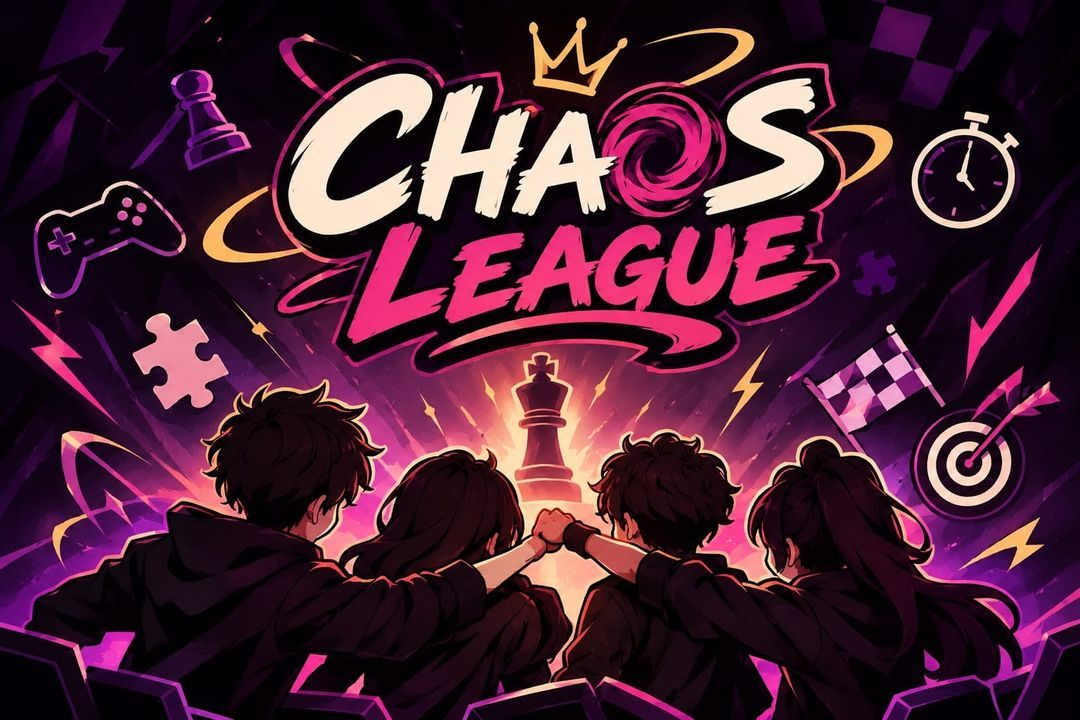
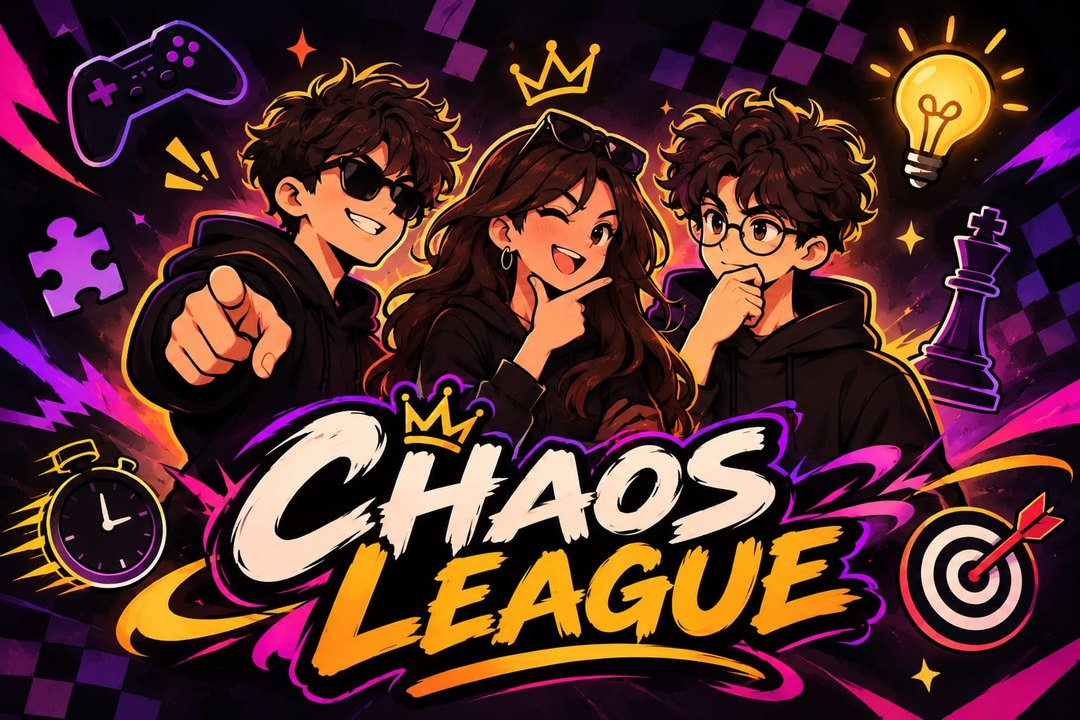
Update Chaos League to Team of 3 and update poster image

diff --git a/app.js b/app.js
@@ -755,7 +755,7 @@ function initApplication() {
       'assets/events/algo_x.jpg?v=15.0',
       'assets/events/free_fire.jpg?v=15.0',
       'assets/events/bgmi.jpg?v=15.0',
-      'assets/events/chaos_league.jpg?v=15.0',
+      'assets/events/chaos_league.jpg?v=16.0',
       'assets/events/clue_crew.jpg?v=15.0'
     ];
     posters.forEach(src => {
@@ -880,9 +880,9 @@ The best algorithm doesn’t just work, it wins. Solutions are scored automatica
     'chaos-league': {
       title: 'CHAOS LEAGUE',
       track: 'NON-TECHNICAL CONCLAVE // TRACK 03',
-      image: 'assets/events/chaos_league.jpg',
+      image: 'assets/events/chaos_league.jpg?v=16.0',
       registerUrl: REGISTER_FORM_URL,
-      description: `Chaos League is an exciting team-based game where four members come together to challenge their teamwork and abilities. It takes trust, coordination, smart thinking, and quick decision-making to overcome unexpected challenges. Work together, think creatively, and act fast to stay ahead of the chaos. Remember, victory isn't just about individual skills but how well your team plays together!`,
+      description: `Chaos League is an exciting team-based game where three members come together to challenge their teamwork and abilities. It takes trust, coordination, smart thinking, and quick decision-making to overcome unexpected challenges. Work together, think creatively, and act fast to stay ahead of the chaos. Remember, victory isn't just about individual skills but how well your team plays together!`,
       rules: ''
     },
     'clue-crew': {
@@ -946,7 +946,7 @@ Team Formation
     }
 
     if (modalEventPoster) {
-      modalEventPoster.src = data.image + '?v=' + Date.now();
+      modalEventPoster.src = (data.image ? data.image.split('?')[0] : '') + '?v=' + Date.now();
       modalEventPoster.alt = `${data.title} Official Poster`;
     }
 

diff --git a/index.html b/index.html
@@ -30,7 +30,7 @@
 <link as="image" href="assets/events/algo_x.jpg?v=15.0" rel="preload"/>
 <link as="image" href="assets/events/free_fire.jpg?v=15.0" rel="preload"/>
 <link as="image" href="assets/events/bgmi.jpg?v=15.0" rel="preload"/>
-<link as="image" href="assets/events/chaos_league.jpg?v=15.0" rel="preload"/>
+<link as="image" href="assets/events/chaos_league.jpg?v=16.0" rel="preload"/>
 <link as="image" href="assets/events/clue_crew.jpg?v=15.0" rel="preload"/>
 <link href="style.css?v=18.0" rel="stylesheet"/>
 <!-- Critical Vintage Theme, Grand Header, Medium-Large Clock & Scroll Down Styles -->
@@ -792,7 +792,7 @@
 </svg>
 </div>
 <div class="dossier-card-poster-wrap">
-<img alt="CHAOS LEAGUE" class="dossier-card-poster" fetchpriority="high" src="assets/events/chaos_league.jpg?v=15.0"/>
+<img alt="CHAOS LEAGUE" class="dossier-card-poster" fetchpriority="high" src="assets/events/chaos_league.jpg?v=16.0"/>
 <span class="dossier-poster-seal">OFFICIAL DOSSIER</span>
 </div><div class="dossier-body">
 <h3 class="dossier-event-name">CHAOS LEAGUE</h3>

diff --git a/data/events.js b/data/events.js
@@ -154,7 +154,7 @@ const EVENT_DATA = {
     date: "NOV 14",
     time: "10:00 AM - 01:00 PM",
     venue: "Quiet Hall, Central Library",
-    teamSize: "Individual",
+    teamSize: "Team of 3",
     prizePool: "₹10,000",
     firstPrize: "₹6,500",
     secondPrize: "₹3,500",
